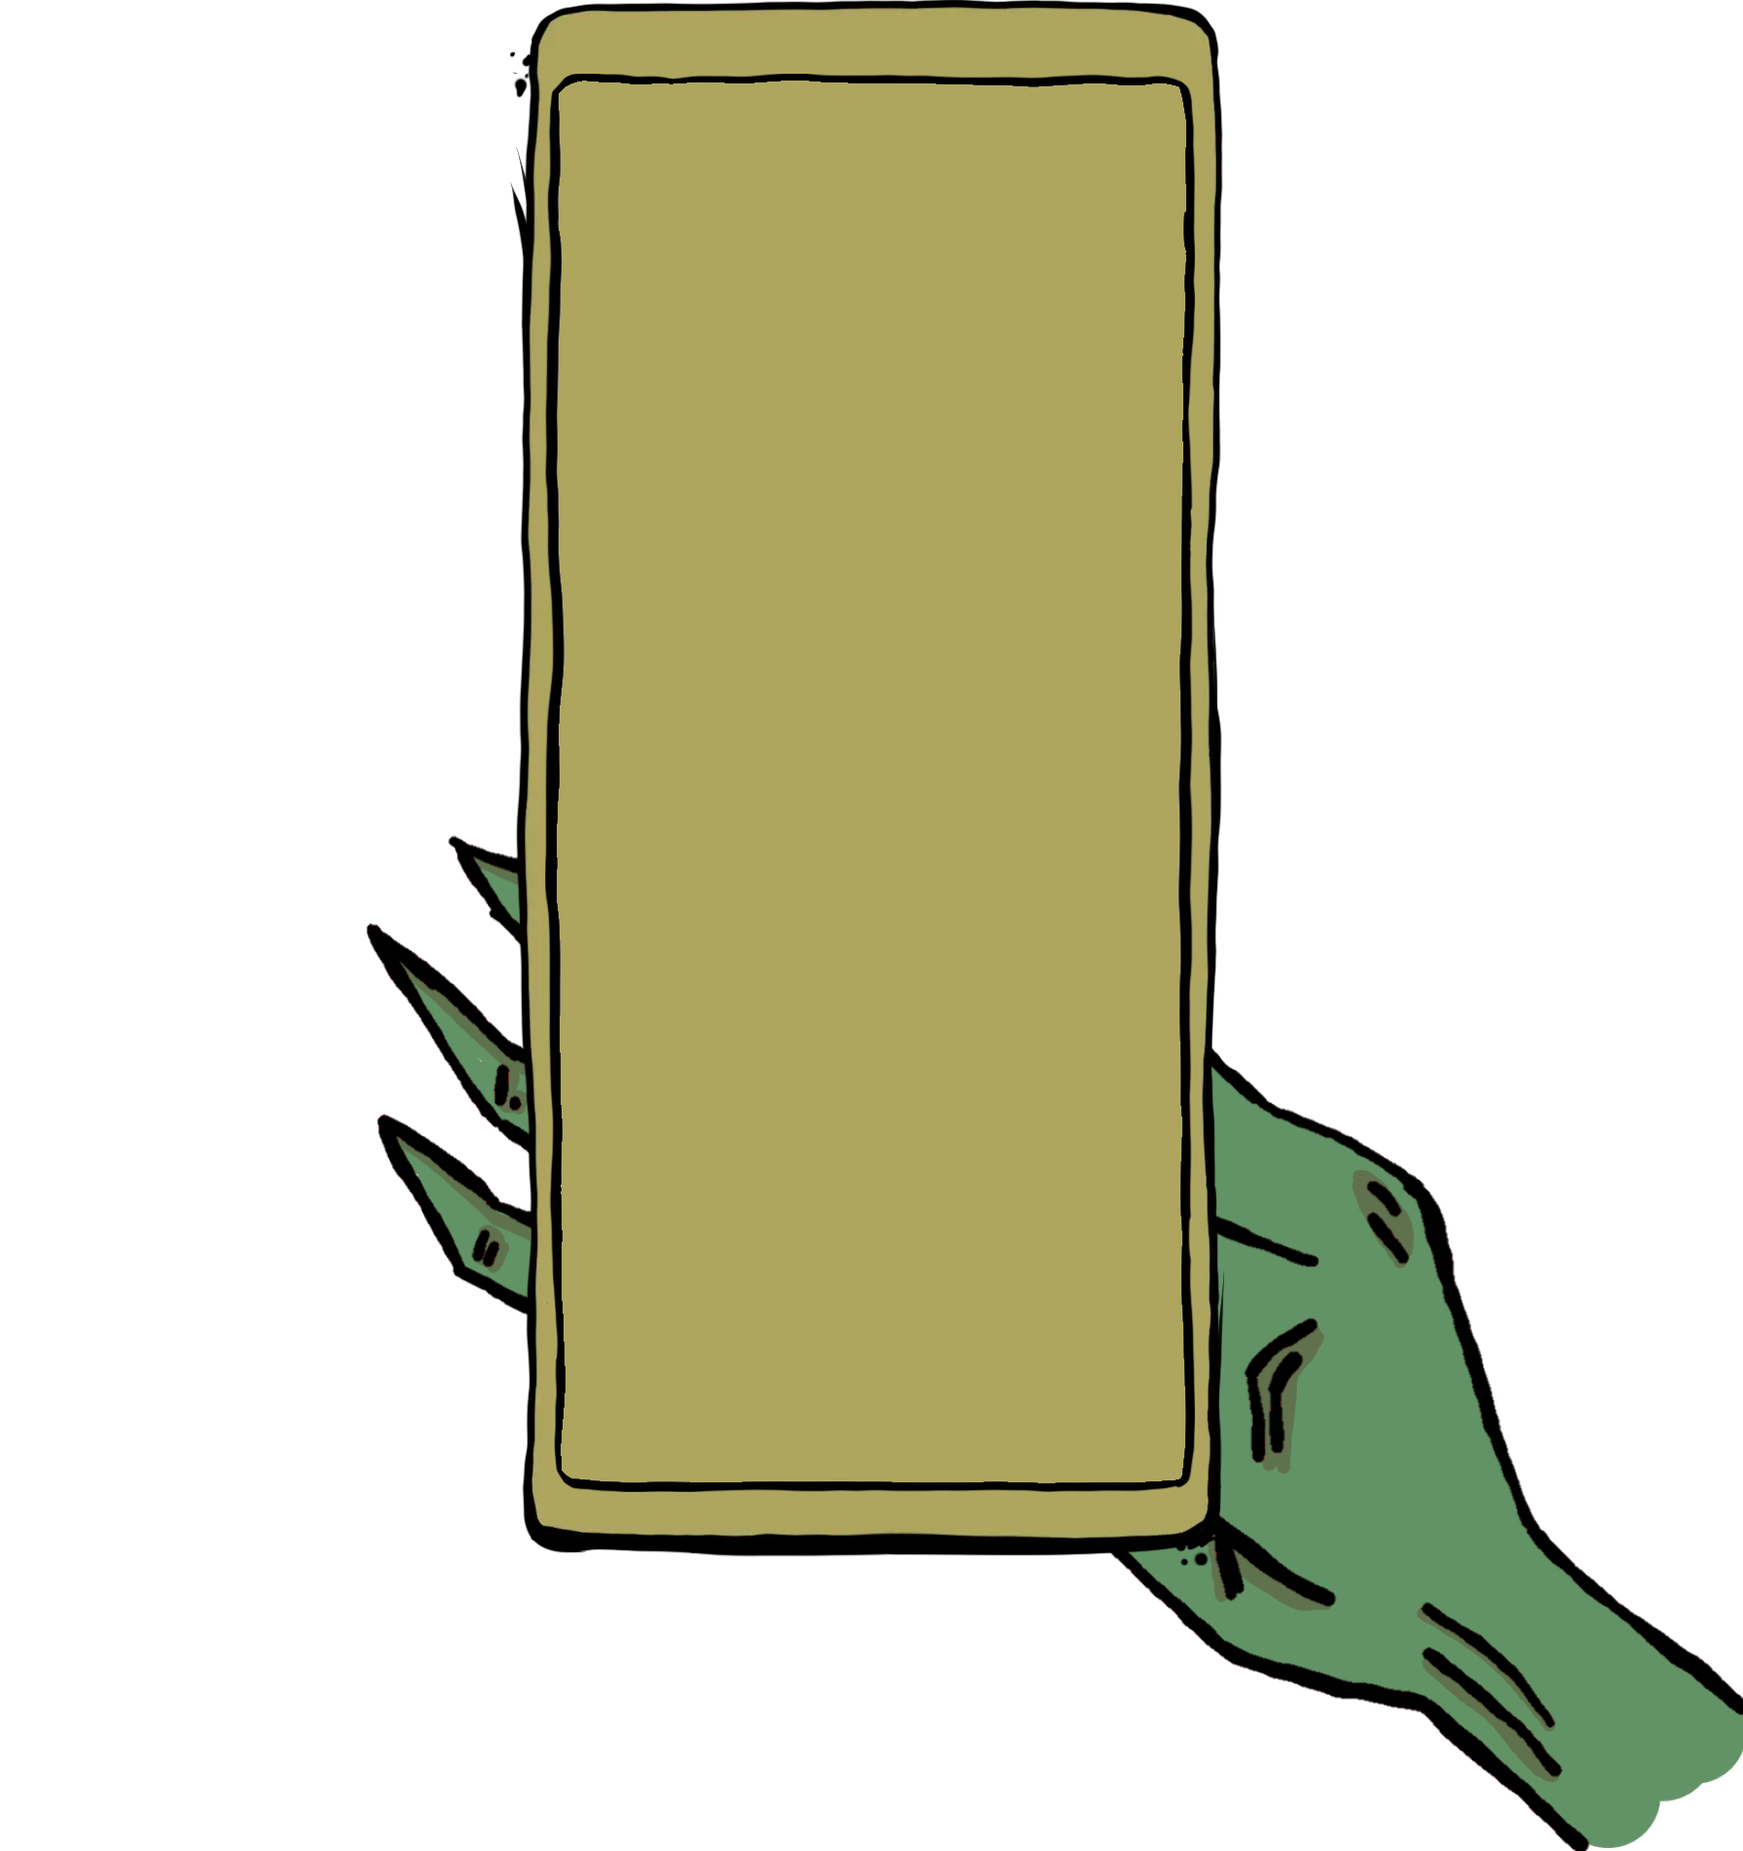
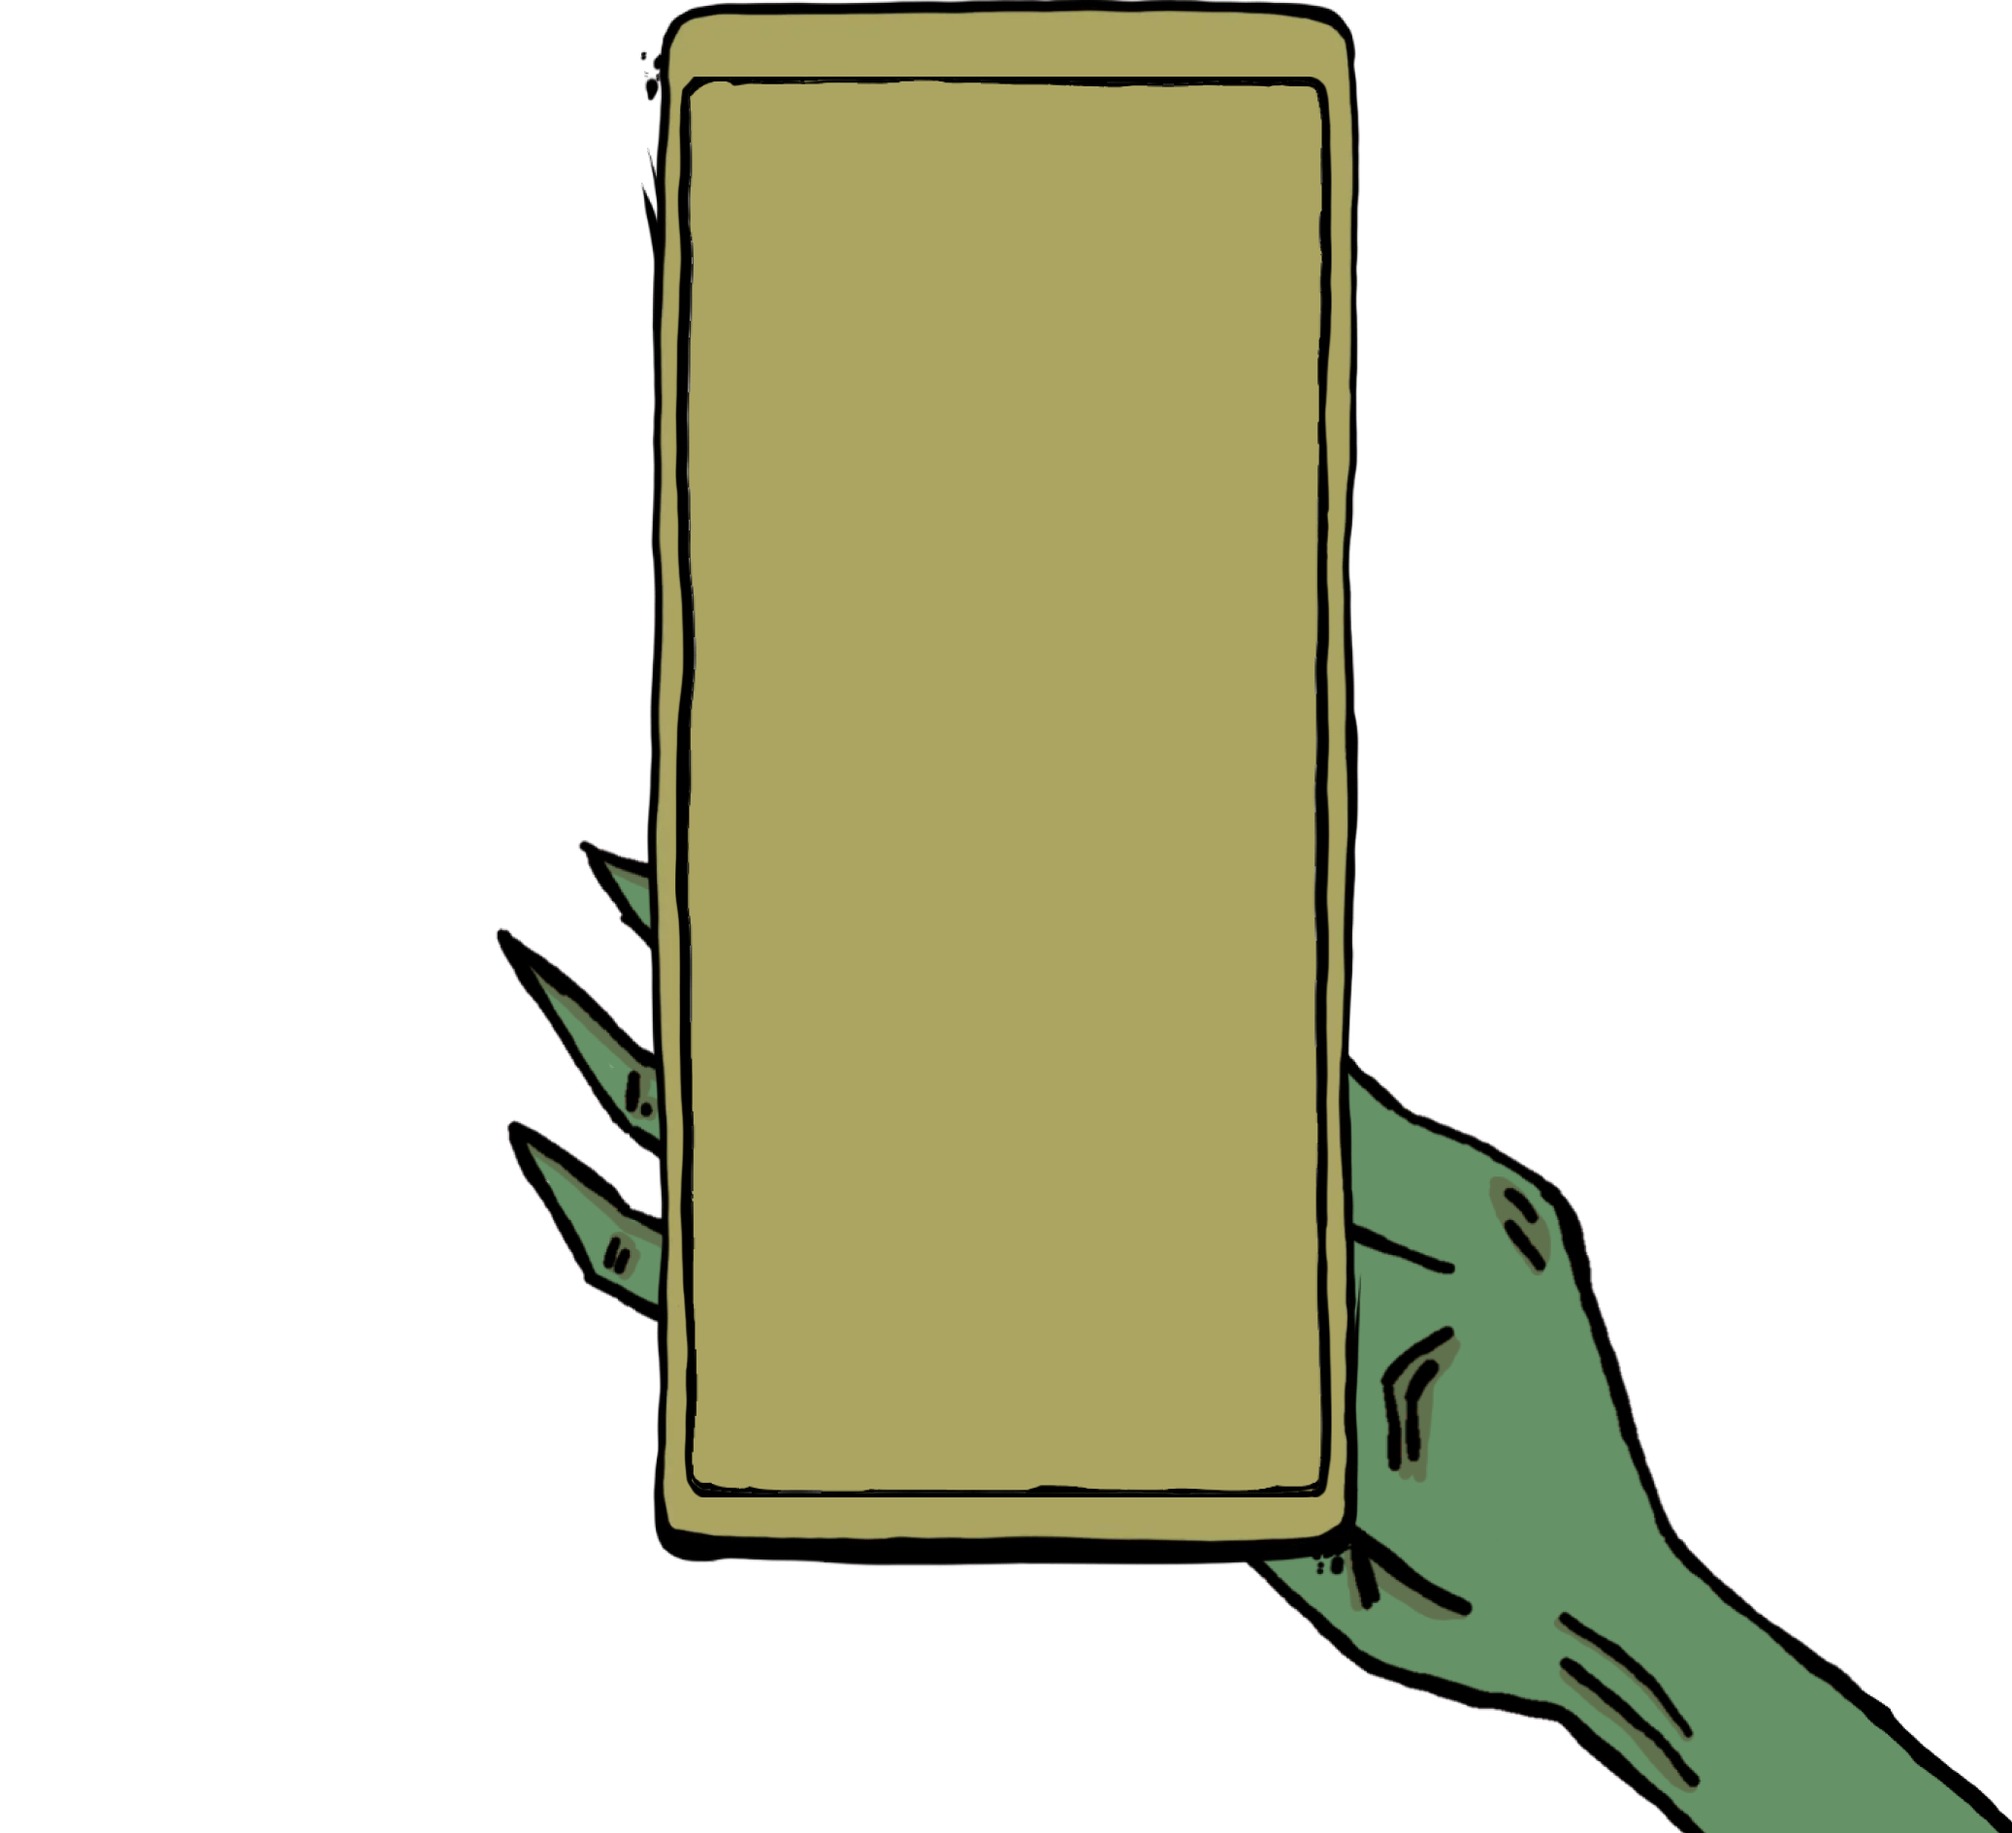
Update layout

Changed region(s): [[0.187, 0.0, 1.0, 1.0]]

diff --git a/src/components/phone/Phone.svelte b/src/components/phone/Phone.svelte
@@ -9,8 +9,8 @@
 
 <div class:phone={true} {...$$restProps}>
 	<Thumb bind:display />
-	<div class="foreground">
-		<img src="/assets/images/phone/foreground.png" alt="Phone foreground" />
+	<div class="bezel">
+		<img src="/assets/images/phone/bezel.png" alt="" />
 	</div>
 	<div
 		bind:this={display}
@@ -21,7 +21,7 @@
 		<slot />
 	</div>
 	<div class="background">
-		<img src="/assets/images/phone/background.png" alt="Phone background" />
+		<img src="/assets/images/phone/background.png" alt="" />
 	</div>
 	<div class="space-keeper">
 		<img src="/assets/images/phone/background.png" alt="" />
@@ -30,10 +30,8 @@
 
 <style lang="scss">
 	.phone {
-		$bottom-offset: -75px;
-
 		position: fixed;
-		bottom: $bottom-offset;
+		bottom: -10%;
 		left: 100%;
 		transform: translateX(-100%) rotate(-10deg);
 		@include transition($transition--primary, transform, left, bottom);
@@ -44,7 +42,7 @@
 		}
 
 		:global(.thumb),
-		.foreground,
+		.bezel,
 		.background,
 		.space-keeper {
 			:global(img) {
@@ -54,7 +52,7 @@
 				@include transition($transition--primary, max-height);
 
 				@include breakpoint($breakpoint--mobile) {
-					max-width: 240vw;
+					max-width: 260vw;
 				}
 			}
 		}
@@ -62,9 +60,9 @@
 		.content {
 			position: absolute;
 			top: 4%;
-			bottom: 19%;
-			left: 32%;
-			right: 32%;
+			bottom: 18%;
+			left: 34%;
+			right: 34%;
 			display: flex;
 			flex-direction: column;
 			color: $color-text--primary;
@@ -78,7 +76,7 @@
 		}
 
 		:global(.thumb),
-		.foreground,
+		.bezel,
 		.background {
 			position: absolute;
 			top: 0;
@@ -90,7 +88,7 @@
 			z-index: 4;
 		}
 
-		.foreground {
+		.bezel {
 			z-index: 3;
 		}
 

diff --git a/src/routes/__layout.svelte b/src/routes/__layout.svelte
@@ -1,19 +1,20 @@
 <script>
 	import { Phone } from '$components/phone';
-	import { TopBar, Navigation, Lockscreen, Playback } from '$components/system';
-	import { Background, Ground } from '$components/environment';
+	import { TopBar, Navigation, Lockscreen } from '$components/system';
+	import { Scene, Background, Ground } from '$components/environment';
 
 	import '../styles/__global.scss';
 </script>
 
 <main>
-	<Phone>
-		<Lockscreen />
-		<TopBar />
-		<slot />
-		<Navigation />
-		<!-- <Playback /> -->
-	</Phone>
+	<Scene>
+		<Phone>
+			<Lockscreen />
+			<TopBar />
+			<slot />
+			<Navigation />
+		</Phone>
+	</Scene>
 	<Ground />
 	<Background />
 </main>
@@ -22,7 +23,7 @@
 	:global(main) {
 		position: relative;
 		max-width: 100vw;
-		max-height: 100vh;
+		height: 100vh;
 		overflow: hidden;
 	}
 </style>

diff --git a/src/components/environment/Scene.svelte b/src/components/environment/Scene.svelte
@@ -1,0 +1,15 @@
+<div class="scene">
+  <slot />
+</div>
+
+<style lang="scss">
+  .scene {
+    position: absolute;
+    top: 0;
+    bottom: 0;
+    left: 50%;
+    transform: translateX(-50%);
+    width: 100%;
+    max-width: 2500px;
+  }
+</style>

diff --git a/src/components/environment/index.ts b/src/components/environment/index.ts
@@ -1,2 +1,3 @@
 export { default as Background } from "./Background.svelte";
 export { default as Ground } from "./Ground.svelte";
+export { default as Scene } from "./Scene.svelte";
